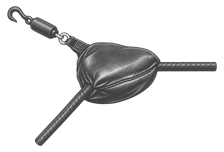
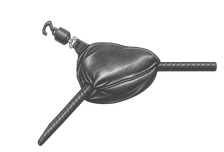
Ring corners: pads at 0.2 (Derek's pick), rigging shortened in the art so the posts stay ~30 / 22 px out

Changed region(s): [[0.0312, 0.0263, 0.375, 0.3684], [0.1562, 0.8158, 0.2188, 0.9474]]

diff --git a/src/ringCorners.js b/src/ringCorners.js
@@ -70,13 +70,12 @@ export function drawTurnbuckle(gfx, a, b, sc = 1, rim = 0x5a5a54) {
     gfx.lineStyle(Math.max(1.4, 1.5 * sc), RIM, 1); gfx.strokeCircle(b.x, b.y, 2 * sc);                // the eye on the post
 }
 
-// TC.6 (Codex art, research/ropes-2026-11/rc/codex-art/): one sprite per corner kind (pad + strap, clip, barrel, hook), drawn at 8x. The left corners use it as drawn, the right corners mirrored; the
+// TC.6 (Codex art, research/ropes-2026-11/rc/codex-art/; originals there): one sprite per corner kind (pad + strap, clip, barrel, hook), levels lifted to dark grey so it reads on the crowd. The left corners use it as drawn, the right corners mirrored; the
 // three levels repeat it. `ropeCorner` sits on the strand end, `postHook` (PNG px) is where the post stands, so the post's x comes from the art, not from `cornerGap`.
-const artScale = () => { if (typeof location === 'undefined') return 1 / 8; const v = Number(new URLSearchParams(location.search).get('tbScale')); return v > 0 ? v : 1 / 8; };   // ?tbScale=<x> (trial)
 export const CORNER_ART = Object.freeze({
-    scale: artScale(),
-    near: Object.freeze({ key: 'turnbuckle-near-v1', size: [320, 200], ropeCorner: [225, 101], postHook: [24, 174] }),
-    far: Object.freeze({ key: 'turnbuckle-far-v1', size: [224, 152], ropeCorner: [148, 71], postHook: [15, 13] }),
+    scale: 0.2,   // Derek 2026-11-25 picked the bigger pads (1.6x the 1/8 the art was drawn for); the rigging is shortened in the PNG (near x0.46, far x0.53 past the pad) so the posts stay ~30 / 22 px out
+    near: Object.freeze({ key: 'turnbuckle-near-v1', size: [320, 200], ropeCorner: [225, 101], postHook: [84, 152] }),
+    far: Object.freeze({ key: 'turnbuckle-far-v1', size: [224, 152], ropeCorner: [148, 71], postHook: [47, 27] }),
 });
 /** Where the art puts the hook relative to the strand end, screen px: { dx, dy } for corner `k` ('nl' | 'nr' | 'fl' | 'fr'). */
 export function cornerArtHook(k) {
